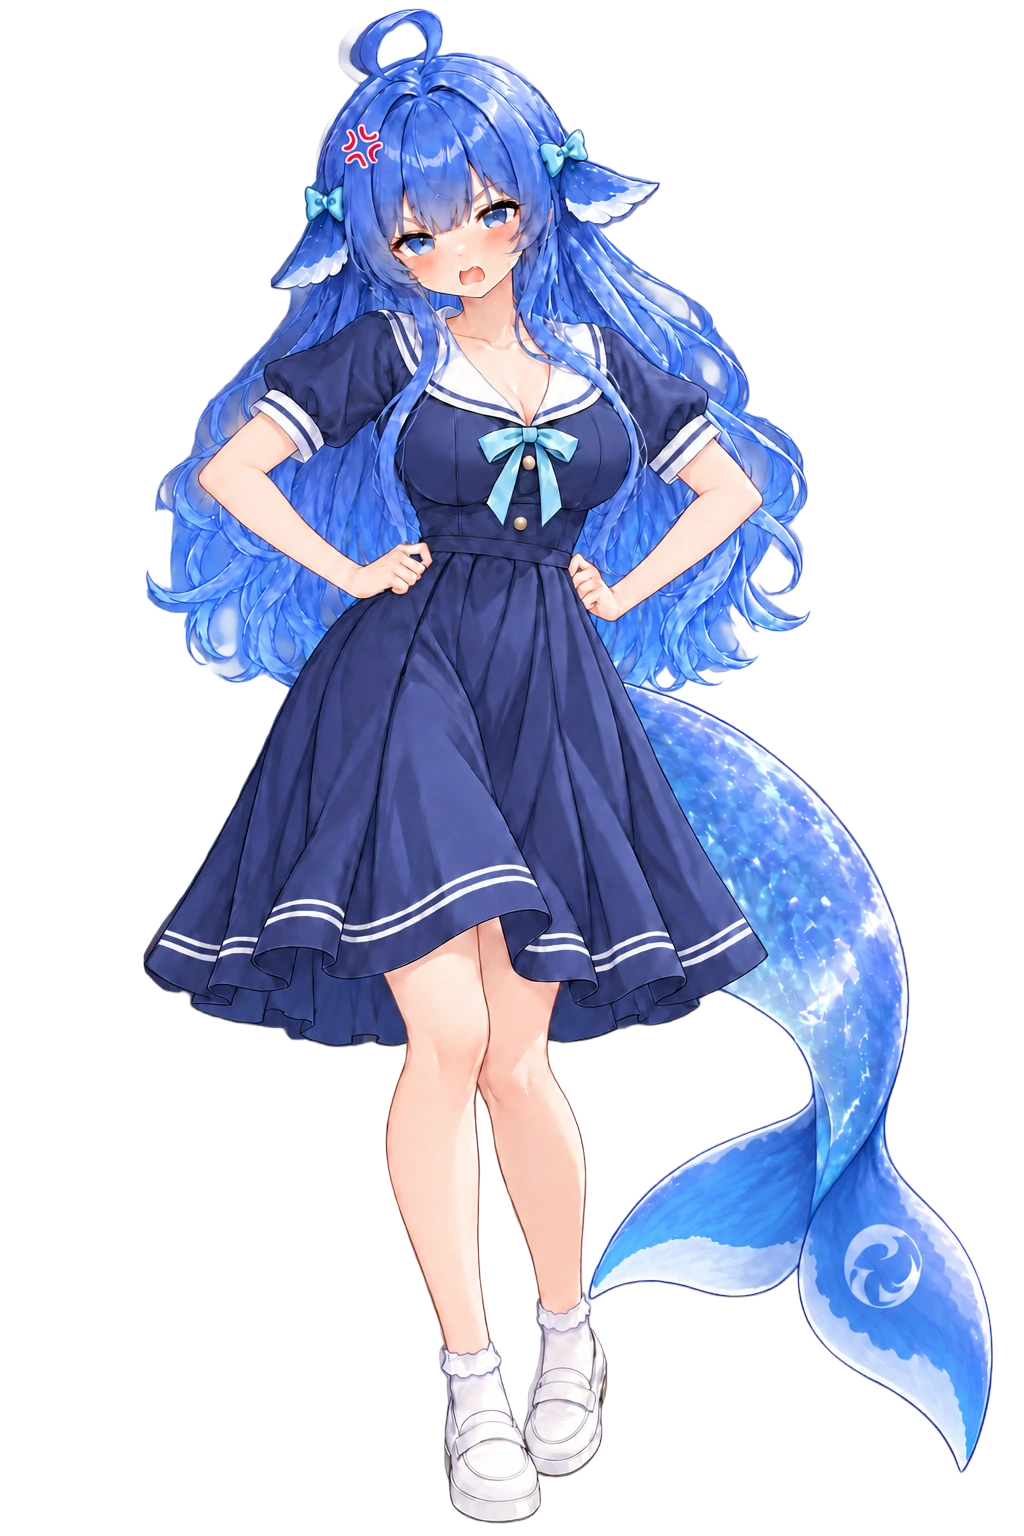
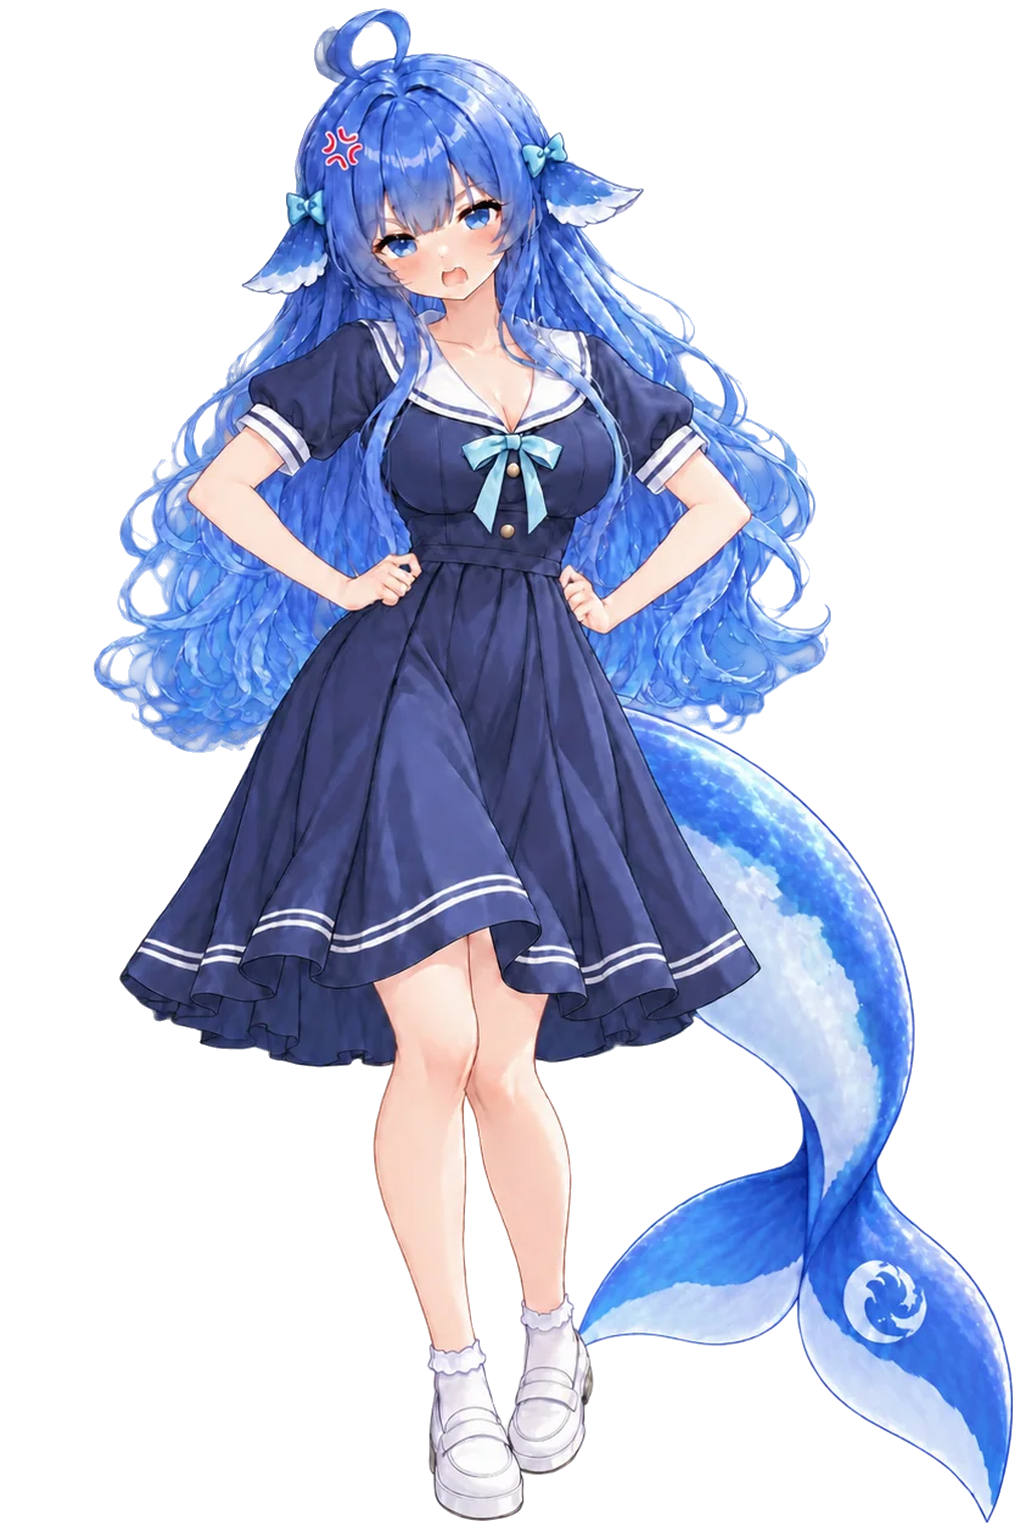
art: L05 换成用户改稿（透明底原样放入画布）

Changed region(s): [[0.0938, 0.0, 1.0, 1.0]]

diff --git a/docs/collab/work-ledger/playtest-ledger-20261018.md b/docs/collab/work-ledger/playtest-ledger-20261018.md
@@ -67,3 +67,4 @@
 - 立绘流程改为：Image2.5 background=transparent 直出 → 轻度去薄雾（alpha<16% 清零），不再白底+rembg。
 - 10:56 用户：新 L06 腿不对（膝盖拧在一起、右大腿接错、腿间夹一缕蓝）。以旧版腿为参照透明底重画，只把裙下腿部区域羽化合成回来，头发镂空与尾巴保持不变。
 - 11:27 用户发来自己改好的 L03 害羞（白底 1254x1254），要求换进游戏。处理：抠图，去掉发丝间残留的白色，按旧版人物高度放大约 1.25 倍放进 1024x1536 画布。原稿入库 docs/collab/playtest/。
+- 11:45 用户发来自己改好的 L05 生气（透明底），已原样换入。
